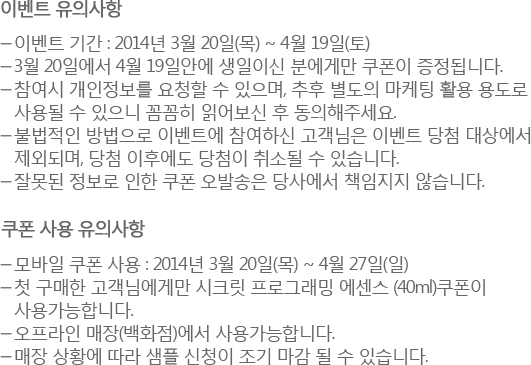
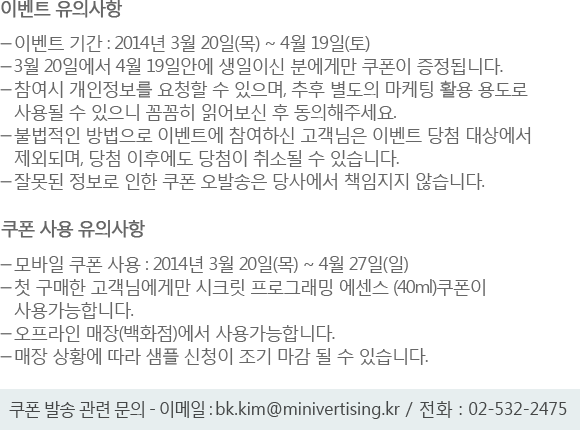
푸터 이미지 수

Changed region(s): [[0.0, 0.0, 1.0, 1.0]]

diff --git a/app/assets/stylesheets/mobile/home_controller.css.scss b/app/assets/stylesheets/mobile/home_controller.css.scss
@@ -216,9 +216,9 @@ body{background: #d4e5e9;}
 
         .text_notes {
           margin-top: 20px;
-          width: 290px;
+          width: 310px;
   	      @media (max-width: 320px) {
-  	        width:265px;
+  	        width:270px;
   	      }
 		  
         }
